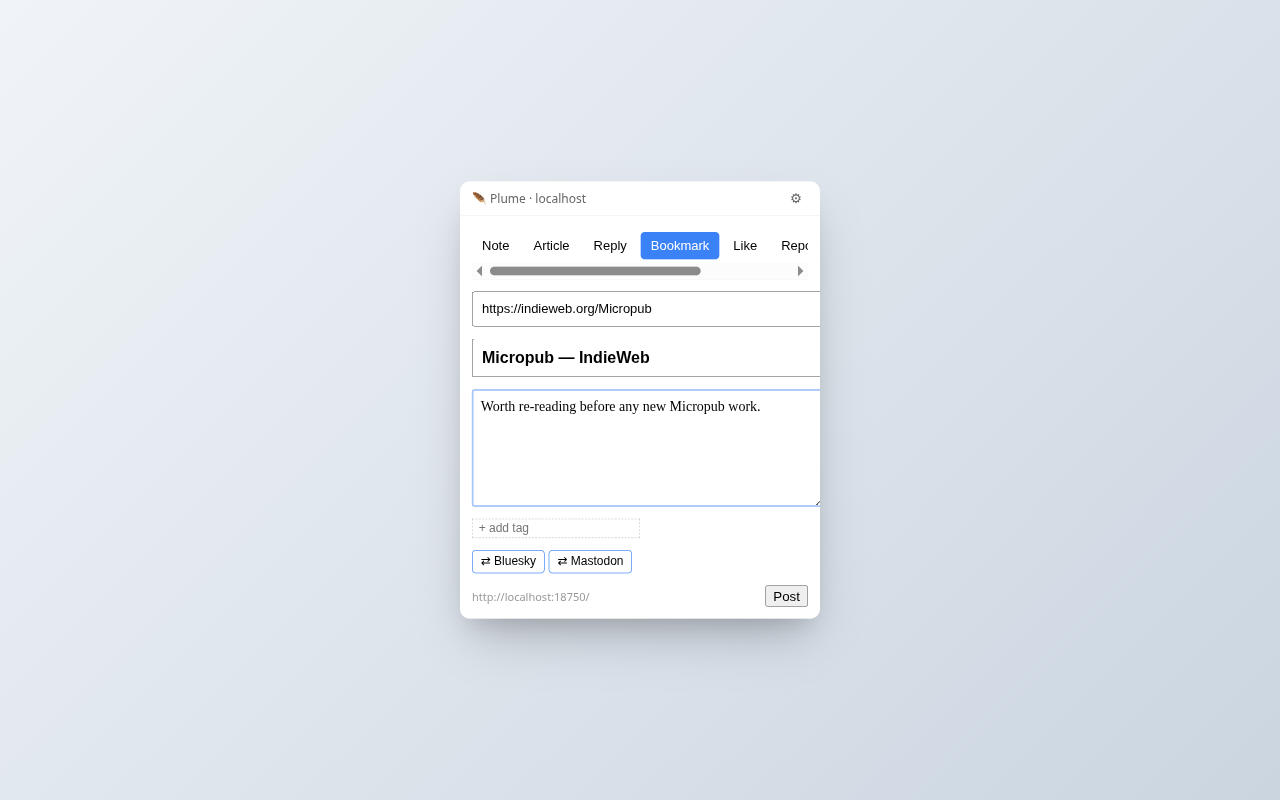
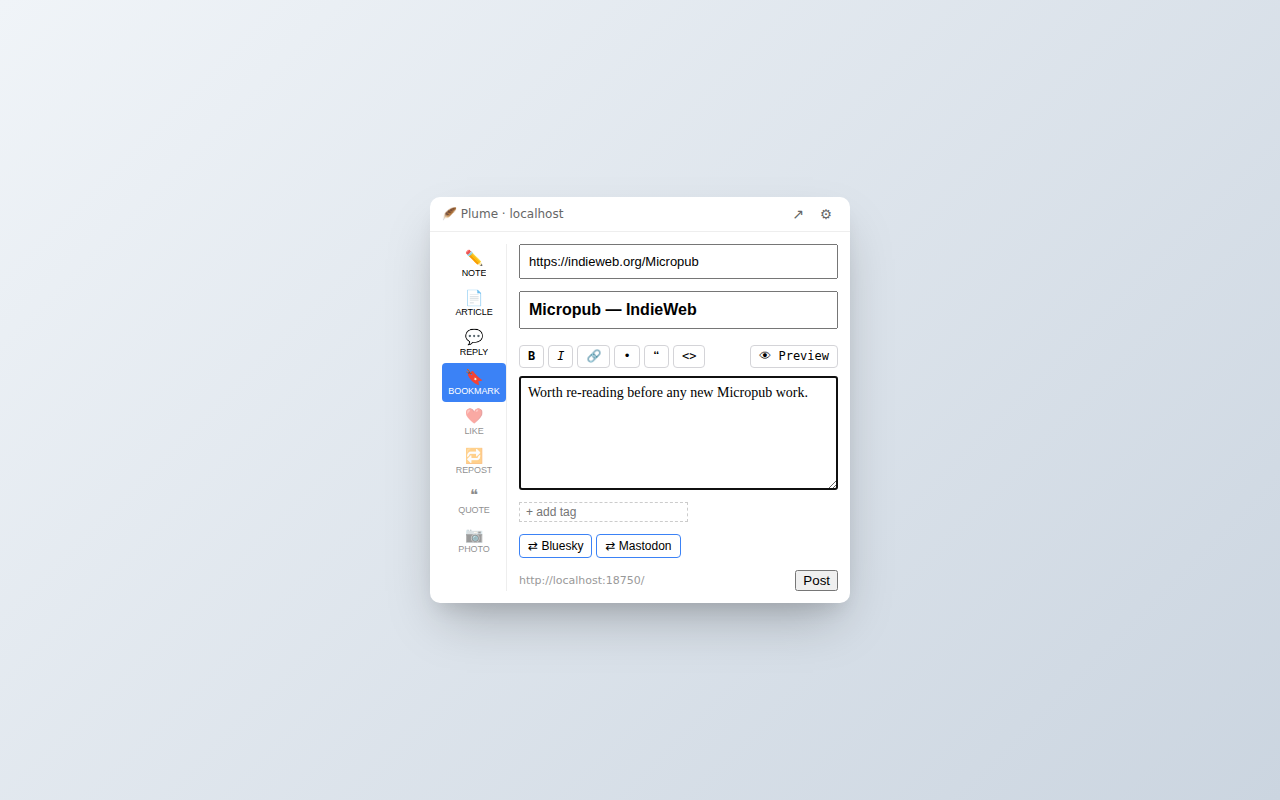
release: v1.6.0

Changed region(s): [[0.3125, 0.2188, 0.6875, 0.7812]]

diff --git a/scripts/capture-screenshots.ts b/scripts/capture-screenshots.ts
@@ -293,6 +293,10 @@ async function main(): Promise<void> {
   const ctx = await chromium.launchPersistentContext("", {
     headless: false,
     viewport: VIEWPORT,
+    // Escape hatch for machines where Playwright's bundled Chromium is
+    // unavailable (an OS newer than the pinned Playwright supports), matching
+    // the same override in tests/e2e/helpers.ts.
+    executablePath: process.env.CHROME_PATH || undefined,
     args: [`--disable-extensions-except=${extDir}`, `--load-extension=${extDir}`],
   });
 

diff --git a/entrypoints/popup/index.html b/entrypoints/popup/index.html
@@ -3,6 +3,19 @@
   <head>
     <meta charset="utf-8" />
     <title>Plume</title>
+    <style>
+      /* Fields are styled with width:100% and their own padding, which without
+         this makes them wider than the column holding them. Set once here so a
+         new field can't reintroduce the overflow. */
+      *,
+      *::before,
+      *::after {
+        box-sizing: border-box;
+      }
+      body {
+        margin: 0;
+      }
+    </style>
   </head>
   <body>
     <div id="app"></div>

diff --git a/CHANGELOG.md b/CHANGELOG.md
@@ -6,6 +6,18 @@ and this project adheres to [Semantic Versioning](https://semver.org/spec/v2.0.0
 
 ## [Unreleased]
 
+## [1.6.0] — 2026-08-16
+
+### Changed
+
+- **The post-type picker is now a vertical rail.** It was a horizontal row with `overflow-x: auto` inside a 360px popup, so eight types meant a scrollbar and types that weren't visible until scrolled to. All eight now sit down the left as icon-above-label tabs, with the fields beside them. The popup goes from 360px to 420px so the writing column keeps the width it had rather than paying for the rail; pop-out mode needed no separate handling. Where a server advertises its own name for a type, that name is used, truncating with an ellipsis when longer than the built-in label — the full name is always in the tooltip.
+
+### Fixed
+
+- **The debug log added in 1.5.0 recorded almost nothing.** Every one of its call sites was a failure path and none covered posting, so the checkbox offering to record what Plume does produced an empty list. Worse, a post that failed outright called the error handler and returned without logging, so the crash that motivated building the log would not have appeared in it. The post lifecycle, popup open, account connected, per-step add-account failures and unavailable server config are now recorded; failures unconditionally, the rest behind the checkbox so an enabled log doesn't accumulate the URL of everything published.
+- **Fields in the composer were wider than the popup.** The URL and title inputs set `width: 100%` alongside their own padding without `box-sizing: border-box`, so they measured 16px past the column holding them — visible as clipping once the rail narrowed that column. `border-box` is now set once for the whole popup rather than per field, so a new field cannot reintroduce it.
+- Screenshots on the project site and in the README showed the previous horizontal picker. `bun run screenshots` also honours `CHROME_PATH` now, matching the E2E harness, so it can run where Playwright's bundled Chromium is unavailable.
+
 ## [1.5.1] — 2026-08-15
 
 ### Fixed
